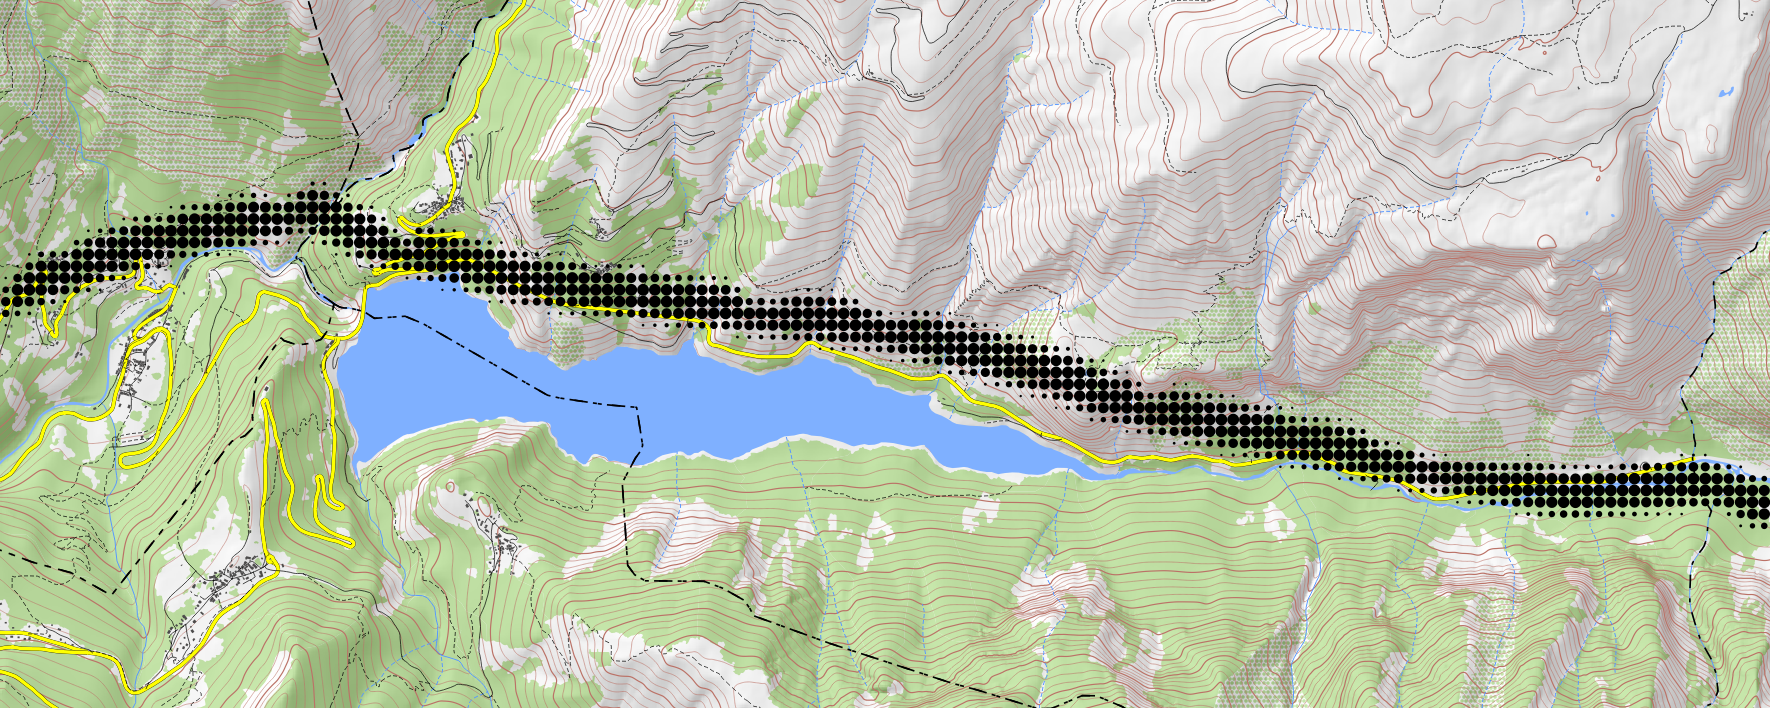
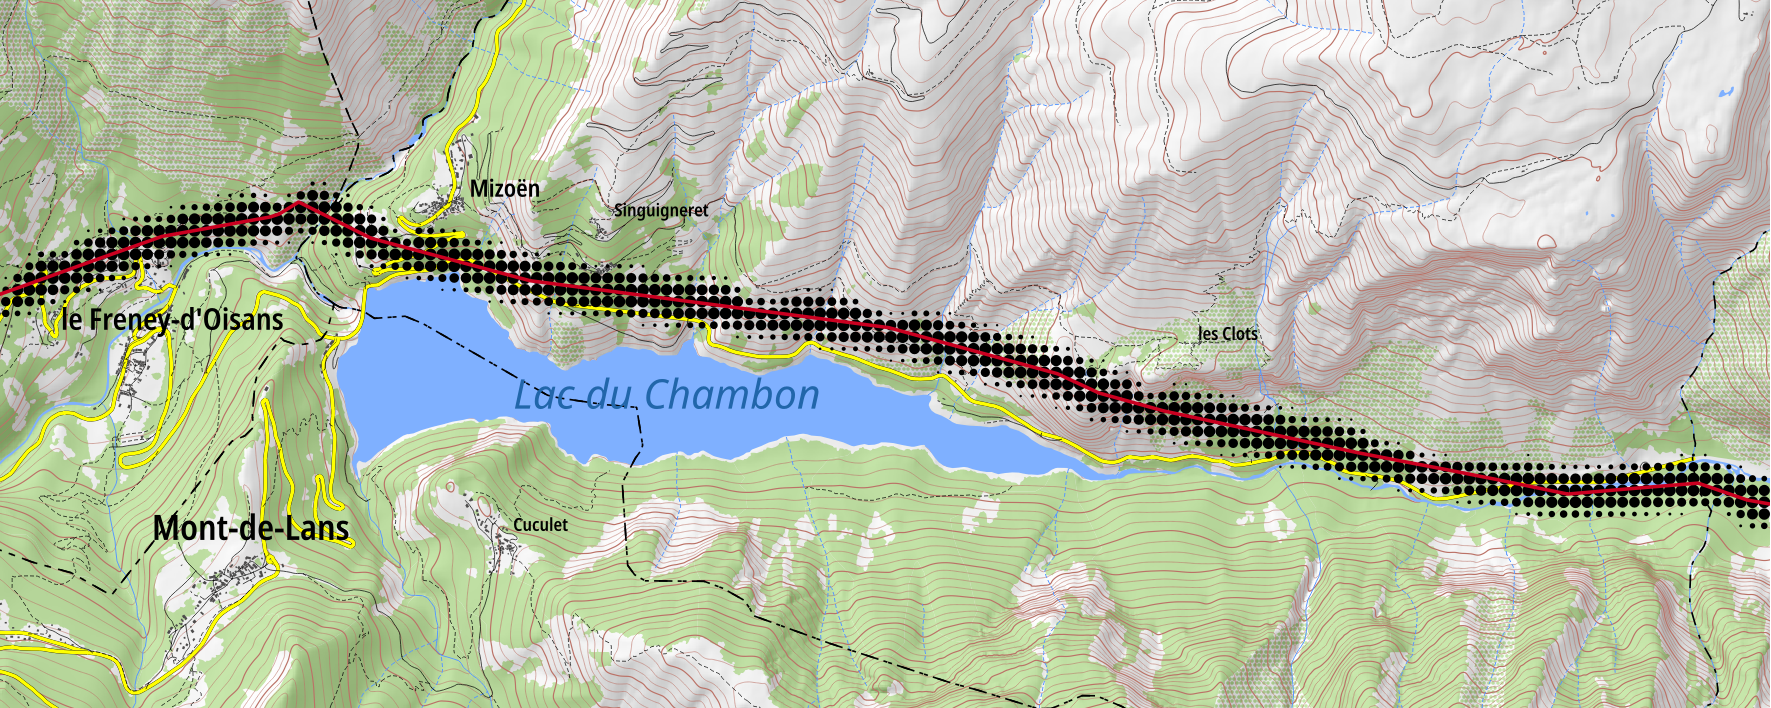
Maj figure 6.6

diff --git a/src/Corps/Partie2/Chapitre6/figures/Raster_ZLP_SOUS_HT.tex b/src/Corps/Partie2/Chapitre6/figures/Raster_ZLP_SOUS_HT.tex
@@ -1,18 +1,26 @@
 \begin{tikzpicture}
   \tikzset{et/.style={above,font=\footnotesize\vphantom{Ag}}}
-  %
+  % 
   \node[inner sep=0pt, anchor=south west] (image) at (0,0){\includegraphics{./figures/Raster_ZLP_SOUS_HT.png}};
-  %
+  % 
   \begin{scope}
     \node (P2) at ([yshift=-.5cm]image.south east) {};
     \node (P1) at ([yshift=-.5cm]image.south west) {};
-    %
+    % 
+    \node (rect) [anchor=north west, minimum width=1cm,minimum
+    height=.25cm] at ([yshift=-.25cm]P1) {}; \path[draw=RdBu-9-1, line
+    width=.4mm](rect.west) --([xshift=-1ex]rect.south) -- ([xshift=1ex]rect.north)
+    -- (rect.east);
+    \node[anchor=west, font=\tiny\vphantom{Ag}, text width = 4cm] at
+    ([xshift=1ex]rect.east) {Ligne électrique utilisée comme
+      \emph{objet de référence}};
+
     \foreach \x [evaluate=\xshift using \x/10, evaluate=\rad using (\x * .0004) + .01] in {0,...,100}
     {
-      \draw[fill=black,draw=none, below] ([xshift=\xshift cm, yshift=-.5cm]P1) circle [radius=\rad cm];
+      \draw[fill=black,draw=none, below] ([xshift=\xshift cm, yshift=-1.5cm]P1) circle [radius=\rad cm];
     }
-    %
-    \path(P1 |- 0cm,-1cm) --++ (10,0)
+    % 
+    \path(P1 |- 0cm,-2cm) --++ (10,0)
     node[et,pos=0] {0}
     node[et,pos=.1] {0,1}
     node[et,pos=.2] {0,2}
@@ -23,6 +31,6 @@
     % Échelle
     \draw[-] (P2 |- -1cm,-1cm) --++ (-1,0) node[et,pos=.5] {\SI{500}{\meter}};
     % Légende détaillée
-    \path (P1) -- (P2) node[pos=.5, yshift=-1cm] {\tiny Pour la légende détaillée du fond topographique voir \autoref{anx:topo_leg}. Sources: BD TOPO 2018, BD ALTI 2018.}; 
+    \path (P1) -- (P2) node[pos=.5, yshift=-2cm] {\tiny Pour la légende détaillée du fond topographique voir \autoref{anx:topo_leg}. Sources: BD TOPO 2018, BD ALTI 2018.}; 
   \end{scope}
 \end{tikzpicture}
